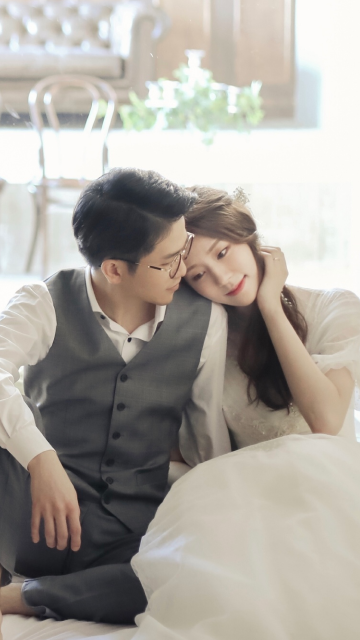
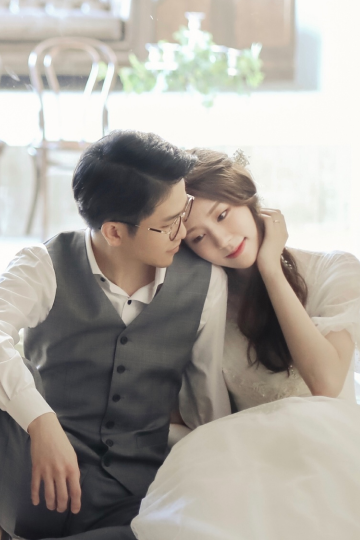
2021.10.04

diff --git a/src/router/MainRouter.tsx b/src/router/MainRouter.tsx
@@ -1,6 +1,7 @@
 import React from "react";
 import { BrowserRouter as Router, Route, Switch } from "react-router-dom";
 import { NotFound } from "../pages/404";
+import { GuestBook } from "../pages/guestBook";
 import { Main } from "../pages/main";
 
 export const MainRouter = () => {
@@ -9,6 +10,9 @@ export const MainRouter = () => {
       <Switch>
         <Route path="/" exact>
           <Main />
+        </Route>
+        <Route path={`/${process.env.REACT_APP_PATH}`} exact>
+          <GuestBook />
         </Route>
         <Route>
           <NotFound />

diff --git a/src/styles/components/thanks.scss b/src/styles/components/thanks.scss
@@ -45,4 +45,16 @@
       background: rgba(255, 255, 255, 0.2);
     }
   }
+  &__copyright {
+    position: absolute;
+    bottom: 20px;
+    display: flex;
+    justify-content: center;
+    width: 100%;
+    font-weight: 400;
+    font-size: 11px;
+    line-height: 109%;
+    letter-spacing: -0.01em;
+    color: rgba(255, 255, 255, 0.3);
+  }
 }

diff --git a/src/styles/common.scss b/src/styles/common.scss
@@ -9,13 +9,15 @@ body {
   align-items: center;
   justify-content: center;
   color: #1a1a1a;
+  margin-bottom: 0px;
+  padding-bottom: 0px;
 }
 
 .wrapper {
   width: 100vw;
   height: 100vh;
-  @media (min-width: 414px) {
-    width: 414px !important;
+  @media (min-width: 420px) {
+    width: 420px !important;
   }
   overflow-x: hidden;
 }

diff --git a/src/pages/main.tsx b/src/pages/main.tsx
@@ -16,7 +16,7 @@ const override = css`
 export const Main = () => {
   const [loading, setLoading] = useState(true);
   useEffect(() => {
-    window.Kakao.init("269b68bfe2b4ab87ffa190e8e00365e7");
+    window.Kakao.init(process.env.REACT_APP_KAKAO_API_KEY);
     setLoading(false);
   }, [setLoading]);
   return (

diff --git a/src/components/thanks.tsx b/src/components/thanks.tsx
@@ -33,6 +33,9 @@ export const Thanks = () => {
           </div>
         </div>
       </div>
+      <div className="thanks__copyright">
+        <span>Copyright 2021. SISUH. all rights reserved.</span>
+      </div>
     </section>
   );
 };

diff --git a/src/pages/guestBook.tsx b/src/pages/guestBook.tsx
@@ -1,0 +1,9 @@
+import React from "react";
+
+export const GuestBook = () => {
+  return (
+    <section>
+      <div>hello</div>
+    </section>
+  );
+};

diff --git a/src/styles/components/cover.scss b/src/styles/components/cover.scss
@@ -1,7 +1,7 @@
 .cover {
   img {
     width: 100%;
-    aspect-ratio: 9 / 16;
+    aspect-ratio: 2 / 3;
   }
   &__container {
     display: flex;
